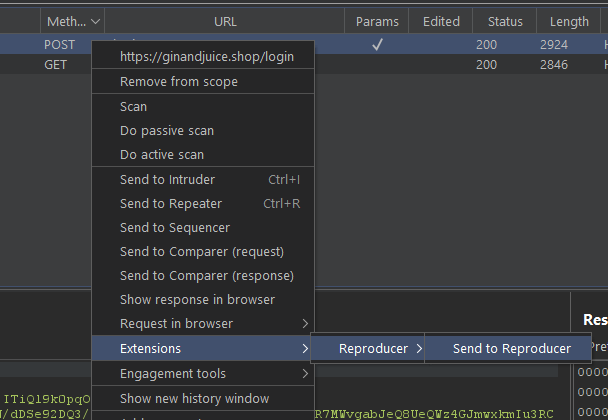
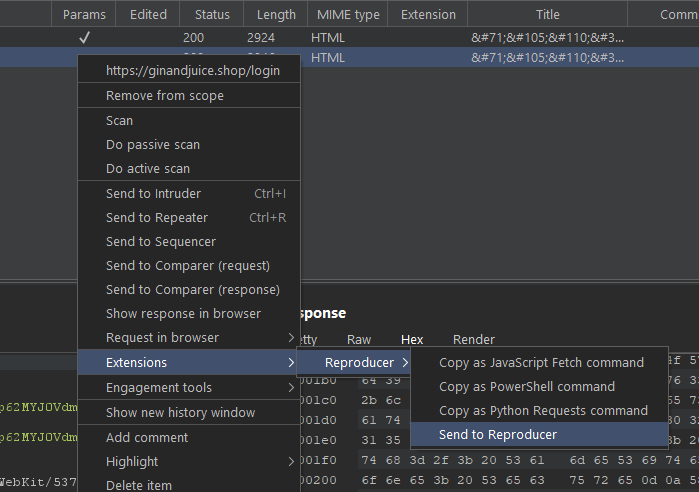
Add "copy to" to right click context

Changed region(s): [[0.0, 0.0, 1.0, 1.0], [0.4062, 0.4643, 0.5, 0.4952], [0.4375, 0.4024, 0.5, 0.4333]]

diff --git a/src/main/java/com/rsm/reproducer/Reproducer.java b/src/main/java/com/rsm/reproducer/Reproducer.java
@@ -3,10 +3,15 @@
     import burp.api.montoya.BurpExtension;
     import burp.api.montoya.MontoyaApi;
     import burp.api.montoya.http.message.HttpRequestResponse;
+    import burp.api.montoya.http.message.requests.HttpRequest;
     import burp.api.montoya.ui.contextmenu.ContextMenuEvent;
     import burp.api.montoya.ui.contextmenu.ContextMenuItemsProvider;
     import javax.swing.*;
     import static java.util.Collections.emptyList;
+
+    import java.awt.*;
+    import java.awt.datatransfer.Clipboard;
+    import java.awt.datatransfer.StringSelection;
     import java.util.List;
 
     public class Reproducer implements BurpExtension
@@ -39,8 +44,8 @@
             public List<JMenuItem> provideMenuItems(ContextMenuEvent event)
             {
                 if (!event.selectedRequestResponses().isEmpty()) {
-                    JMenuItem menuItem = new JMenuItem("Send to Reproducer");
-                    menuItem.addActionListener(e -> {
+                    JMenuItem sendToReproducerMenuItem = new JMenuItem("Send to Reproducer");
+                    sendToReproducerMenuItem.addActionListener(e -> {
                         tab.selectParentTab();
                         new Thread(() -> {
                             try {
@@ -54,11 +59,35 @@
                             }
                         }).start();
                     });
-                    return List.of(menuItem);
+                    JMenuItem copyPowerShellMenuItem = new JMenuItem("Copy as PowerShell command");
+                    copyPowerShellMenuItem.addActionListener(e -> {
+                        HttpRequest request = event.selectedRequestResponses().get(0).httpRequest();
+                        PowerShellBuilder prb = new PowerShellBuilder(api);
+                        StringSelection stringSelection = new StringSelection(prb.build(request).toString());
+                        Clipboard clipboard = Toolkit.getDefaultToolkit().getSystemClipboard();
+                        clipboard.setContents(stringSelection, null);
+                    });
+                    JMenuItem copyPythonRequestsMenuItem = new JMenuItem("Copy as Python Requests command");
+                    copyPythonRequestsMenuItem.addActionListener(e -> {
+                        HttpRequest request = event.selectedRequestResponses().get(0).httpRequest();
+                        PythonRequestBuilder prb = new PythonRequestBuilder(api);
+                        StringSelection stringSelection = new StringSelection(prb.build(request).toString());
+                        Clipboard clipboard = Toolkit.getDefaultToolkit().getSystemClipboard();
+                        clipboard.setContents(stringSelection, null);
+                    });
+                    JMenuItem copyJavaScriptFetchMenuItem = new JMenuItem("Copy as JavaScript Fetch command");
+                    copyJavaScriptFetchMenuItem.addActionListener(e -> {
+                        HttpRequest request = event.selectedRequestResponses().get(0).httpRequest();
+                        JavaScriptRequestBuilder jrb = new JavaScriptRequestBuilder(api);
+                        StringSelection stringSelection = new StringSelection(jrb.build(request).toString());
+                        Clipboard clipboard = Toolkit.getDefaultToolkit().getSystemClipboard();
+                        clipboard.setContents(stringSelection, null);
+                    });
+                    return List.of(sendToReproducerMenuItem, copyPowerShellMenuItem, copyPythonRequestsMenuItem, copyJavaScriptFetchMenuItem);
                 }
                 else if (event.messageEditorRequestResponse().isPresent()) {
-                    JMenuItem menuItem = new JMenuItem("Send to Reproducer");
-                    menuItem.addActionListener(e -> {
+                    JMenuItem sendToReproducerMenuItem = new JMenuItem("Send to Reproducer");
+                    sendToReproducerMenuItem.addActionListener(e -> {
                         tab.selectParentTab();
                         // This function may make HTTP calls, so run in a thread
                         new Thread(() -> {
@@ -71,7 +100,31 @@
                             }
                         }).start();
                     });
-                    return List.of(menuItem);
+                    JMenuItem copyPowerShellMenuItem = new JMenuItem("Copy as PowerShell command");
+                    copyPowerShellMenuItem.addActionListener(e -> {
+                        HttpRequest request = event.messageEditorRequestResponse().get().getRequestResponse().httpRequest();
+                        PowerShellBuilder prb = new PowerShellBuilder(api);
+                        StringSelection stringSelection = new StringSelection(prb.build(request).toString());
+                        Clipboard clipboard = Toolkit.getDefaultToolkit().getSystemClipboard();
+                        clipboard.setContents(stringSelection, null);
+                    });
+                    JMenuItem copyPythonRequestsMenuItem = new JMenuItem("Copy as Python Requests command");
+                    copyPythonRequestsMenuItem.addActionListener(e -> {
+                        HttpRequest request = event.messageEditorRequestResponse().get().getRequestResponse().httpRequest();
+                        PythonRequestBuilder prb = new PythonRequestBuilder(api);
+                        StringSelection stringSelection = new StringSelection(prb.build(request).toString());
+                        Clipboard clipboard = Toolkit.getDefaultToolkit().getSystemClipboard();
+                        clipboard.setContents(stringSelection, null);
+                    });
+                    JMenuItem copyJavaScriptFetchMenuItem = new JMenuItem("Copy as JavaScript Fetch command");
+                    copyJavaScriptFetchMenuItem.addActionListener(e -> {
+                        HttpRequest request = event.messageEditorRequestResponse().get().getRequestResponse().httpRequest();
+                        JavaScriptRequestBuilder jrb = new JavaScriptRequestBuilder(api);
+                        StringSelection stringSelection = new StringSelection(jrb.build(request).toString());
+                        Clipboard clipboard = Toolkit.getDefaultToolkit().getSystemClipboard();
+                        clipboard.setContents(stringSelection, null);
+                    });
+                    return List.of(sendToReproducerMenuItem, copyPowerShellMenuItem, copyPythonRequestsMenuItem, copyJavaScriptFetchMenuItem);
                 }
                 else
                 {
